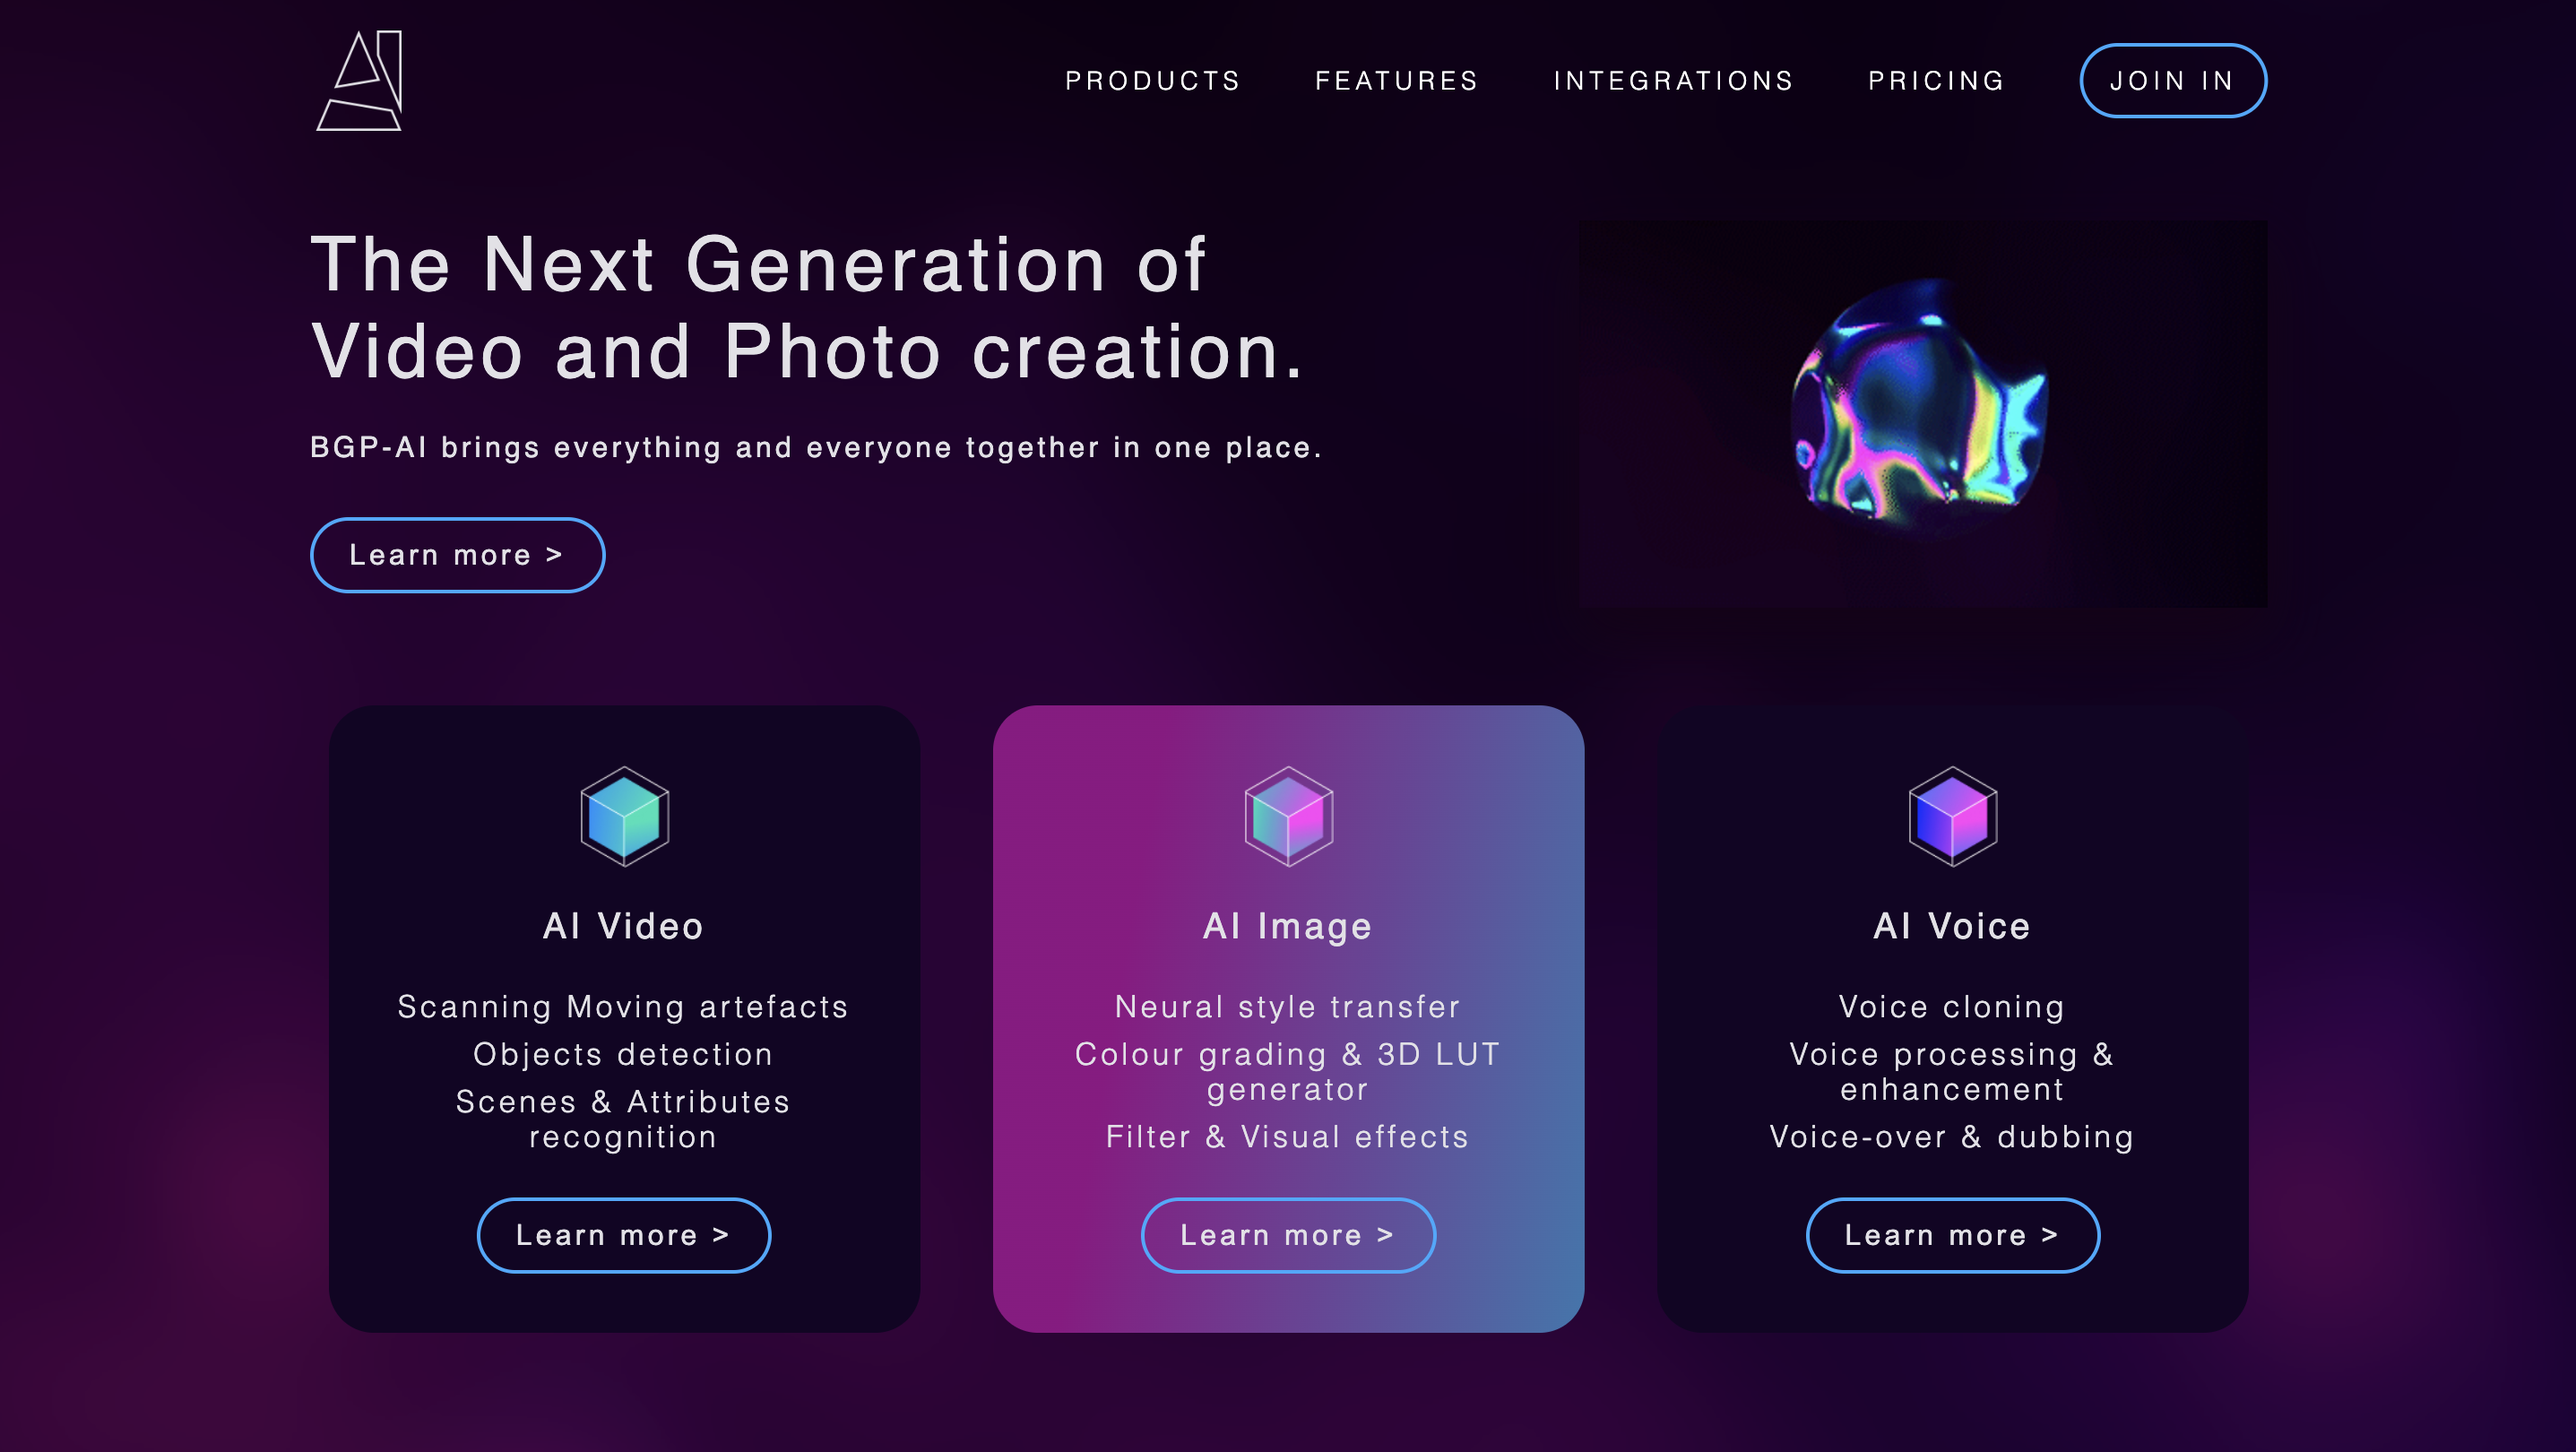
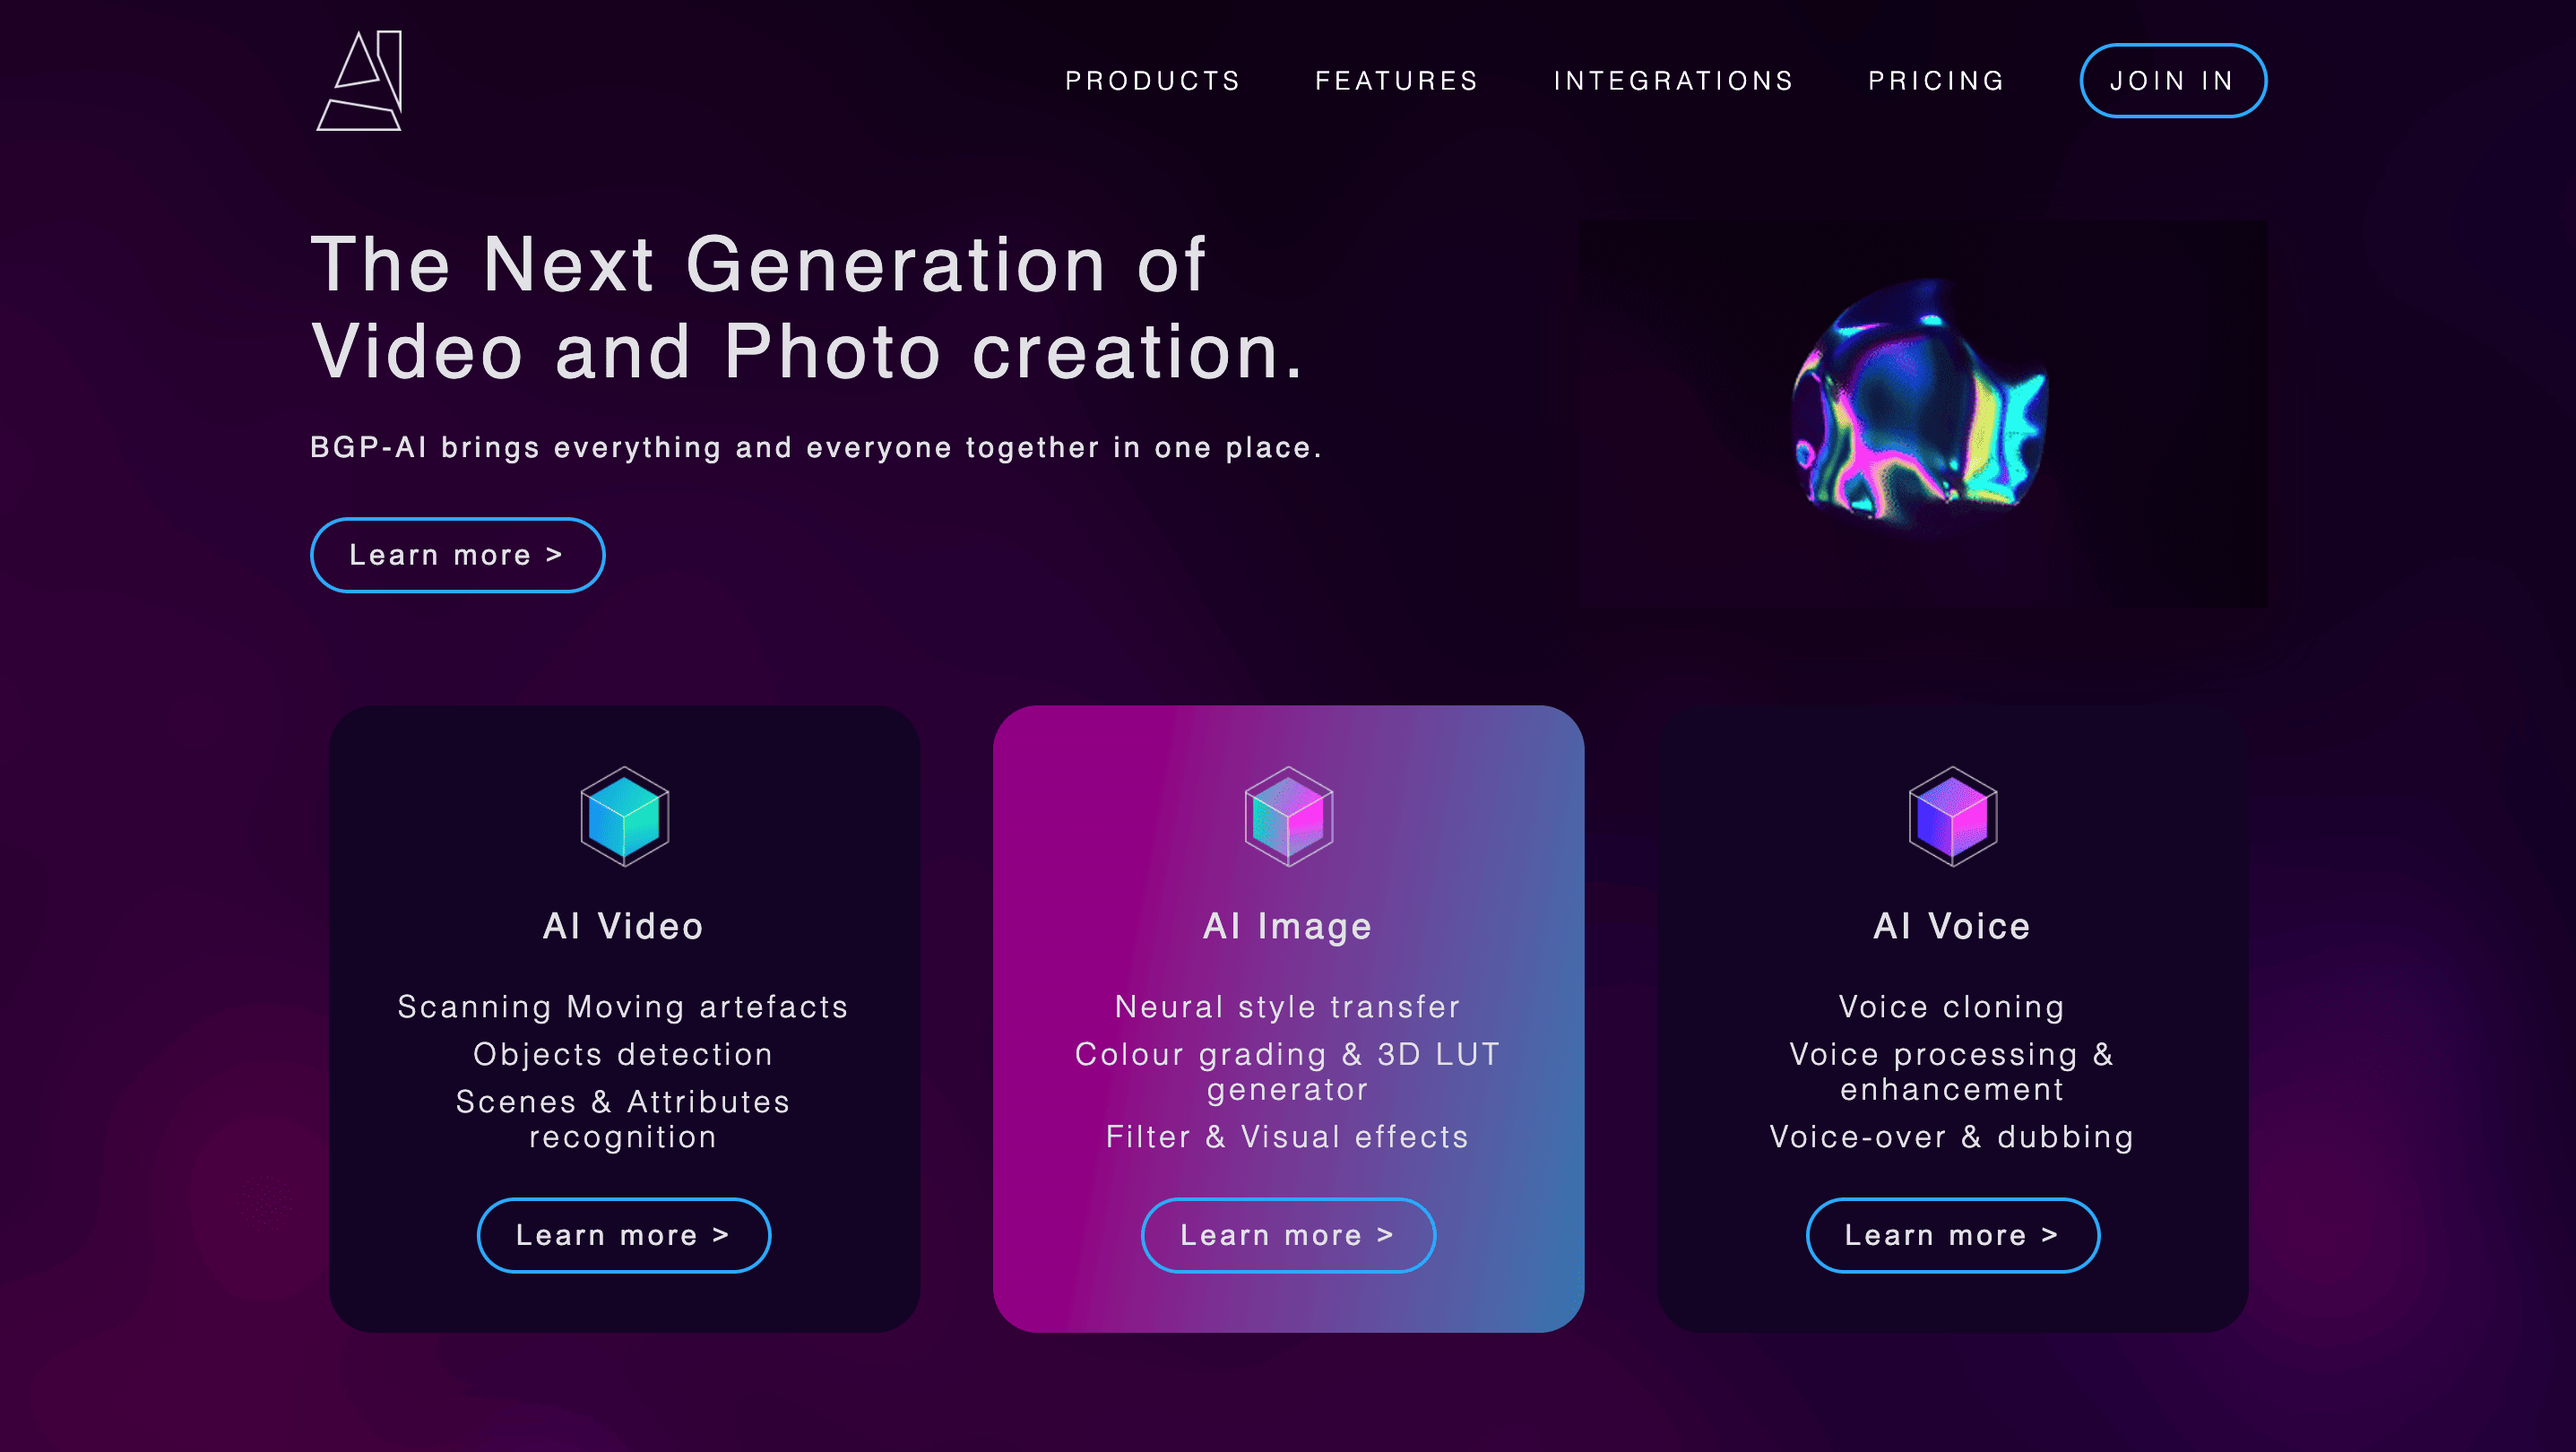
image optimizatiion
compressed images for faster web site

diff --git a/src/components/About.jsx b/src/components/About.jsx
@@ -41,7 +41,6 @@ const ContentWrapper = styled.div`
 
   @media only screen and (min-width: 769px) {
     flex-direction: row;
-    gap: 10rem;
   }
 `;
 
@@ -54,9 +53,9 @@ const Left = styled.div`
 `;
 
 const Right = styled.div`
-  flex: 1;
+  flex: 2;
   position: relative;
-  padding-left: 20px; /* Adjust as needed for spacing */
+  padding-left: 20px;
 `;
 
 const Img = styled.img`
@@ -82,31 +81,31 @@ const Af = styled.p`
   }
 `;
 
-const Button = styled.button`
-  background: transparent; /* Transparent background */
-  margin-top: 20px;
-  padding: 10px 20px;
-  font-size: 16px;
-  font-weight: bold;
-  color: white;
-  border: 1px solid white;
-  border-radius: 5px;
-  cursor: pointer;
-  transition: background-color 0.3s ease;
+// const Button = styled.button`
+//   background: transparent;
+//   margin-top: 20px;
+//   padding: 10px 20px;
+//   font-size: 16px;
+//   font-weight: bold;
+//   color: white;
+//   border: 1px solid white;
+//   border-radius: 5px;
+//   cursor: pointer;
+//   transition: background-color 0.3s ease;
 
-  /* Hover effect */
-  &:hover {
-    --edge-light: hsla(0, 0%, 50%, 1);
-    text-shadow: 0px 0px 10px var(--text-light);
-    box-shadow: inset 0.4px 1px 4px var(--edge-light),
-      2px 4px 8px hsla(0, 0%, 0%, 0.295);
-    transform: scale(1.1);
-  }
+//   /* Hover effect */
+//   &:hover {
+//     --edge-light: hsla(0, 0%, 50%, 1);
+//     text-shadow: 0px 0px 10px var(--text-light);
+//     box-shadow: inset 0.4px 1px 4px var(--edge-light),
+//       2px 4px 8px hsla(0, 0%, 0%, 0.295);
+//     transform: scale(1.1);
+//   }
 
-  @media only screen and (max-width: 768px) {
-    display: none;
-  }
-`;
+//   @media only screen and (max-width: 768px) {
+//     display: none;
+//   }
+// `;
 
 const About = () => {
   return (
@@ -147,7 +146,7 @@ const About = () => {
               <br />
             </Desc>
             <SkillCard />
-            <Button>Download CV</Button>
+            {/* <Button>Download CV</Button> */}
           </Right>
         </ContentWrapper>
       </Container>

diff --git a/src/components/Contact.jsx b/src/components/Contact.jsx
@@ -47,9 +47,13 @@ const Left = styled.div`
 
 const Title = styled.h1`
   font-size: 72px;
-  @media only screen and (max-width: 1024px) {
-    display: 40px;
+  @media only screen and (max-width: 768px) {
+    font-size: 40px;
   }
+
+  /* @media only screen and (max-width: 1024px) {
+    display: 40px;
+  } */
 `;
 
 const Form = styled.form`

diff --git a/src/components/Header.jsx b/src/components/Header.jsx
@@ -198,7 +198,8 @@ const Header = () => {
     }
   };
   const downloadCV = () => {
-    const cvURL = 'https://shorturl.at/qtwzR';
+    const cvURL =
+      'https://drive.google.com/file/d/1bh-Fg0qaLkWqNH0lY4nSKelt8ouwYipz/view?usp=sharing';
     window.open(cvURL, '_blank');
   };
   // const handleLogoClick = () => {

diff --git a/src/components/Card.jsx b/src/components/Card.jsx
@@ -38,7 +38,7 @@ const CardImage = styled.div`
   width: 100%;
   vertical-align: middle;
 
-  background-size: contain;
+  background-size: cover;
   background-repeat: no-repeat;
   background-position: center;
   min-height: 15rem;
